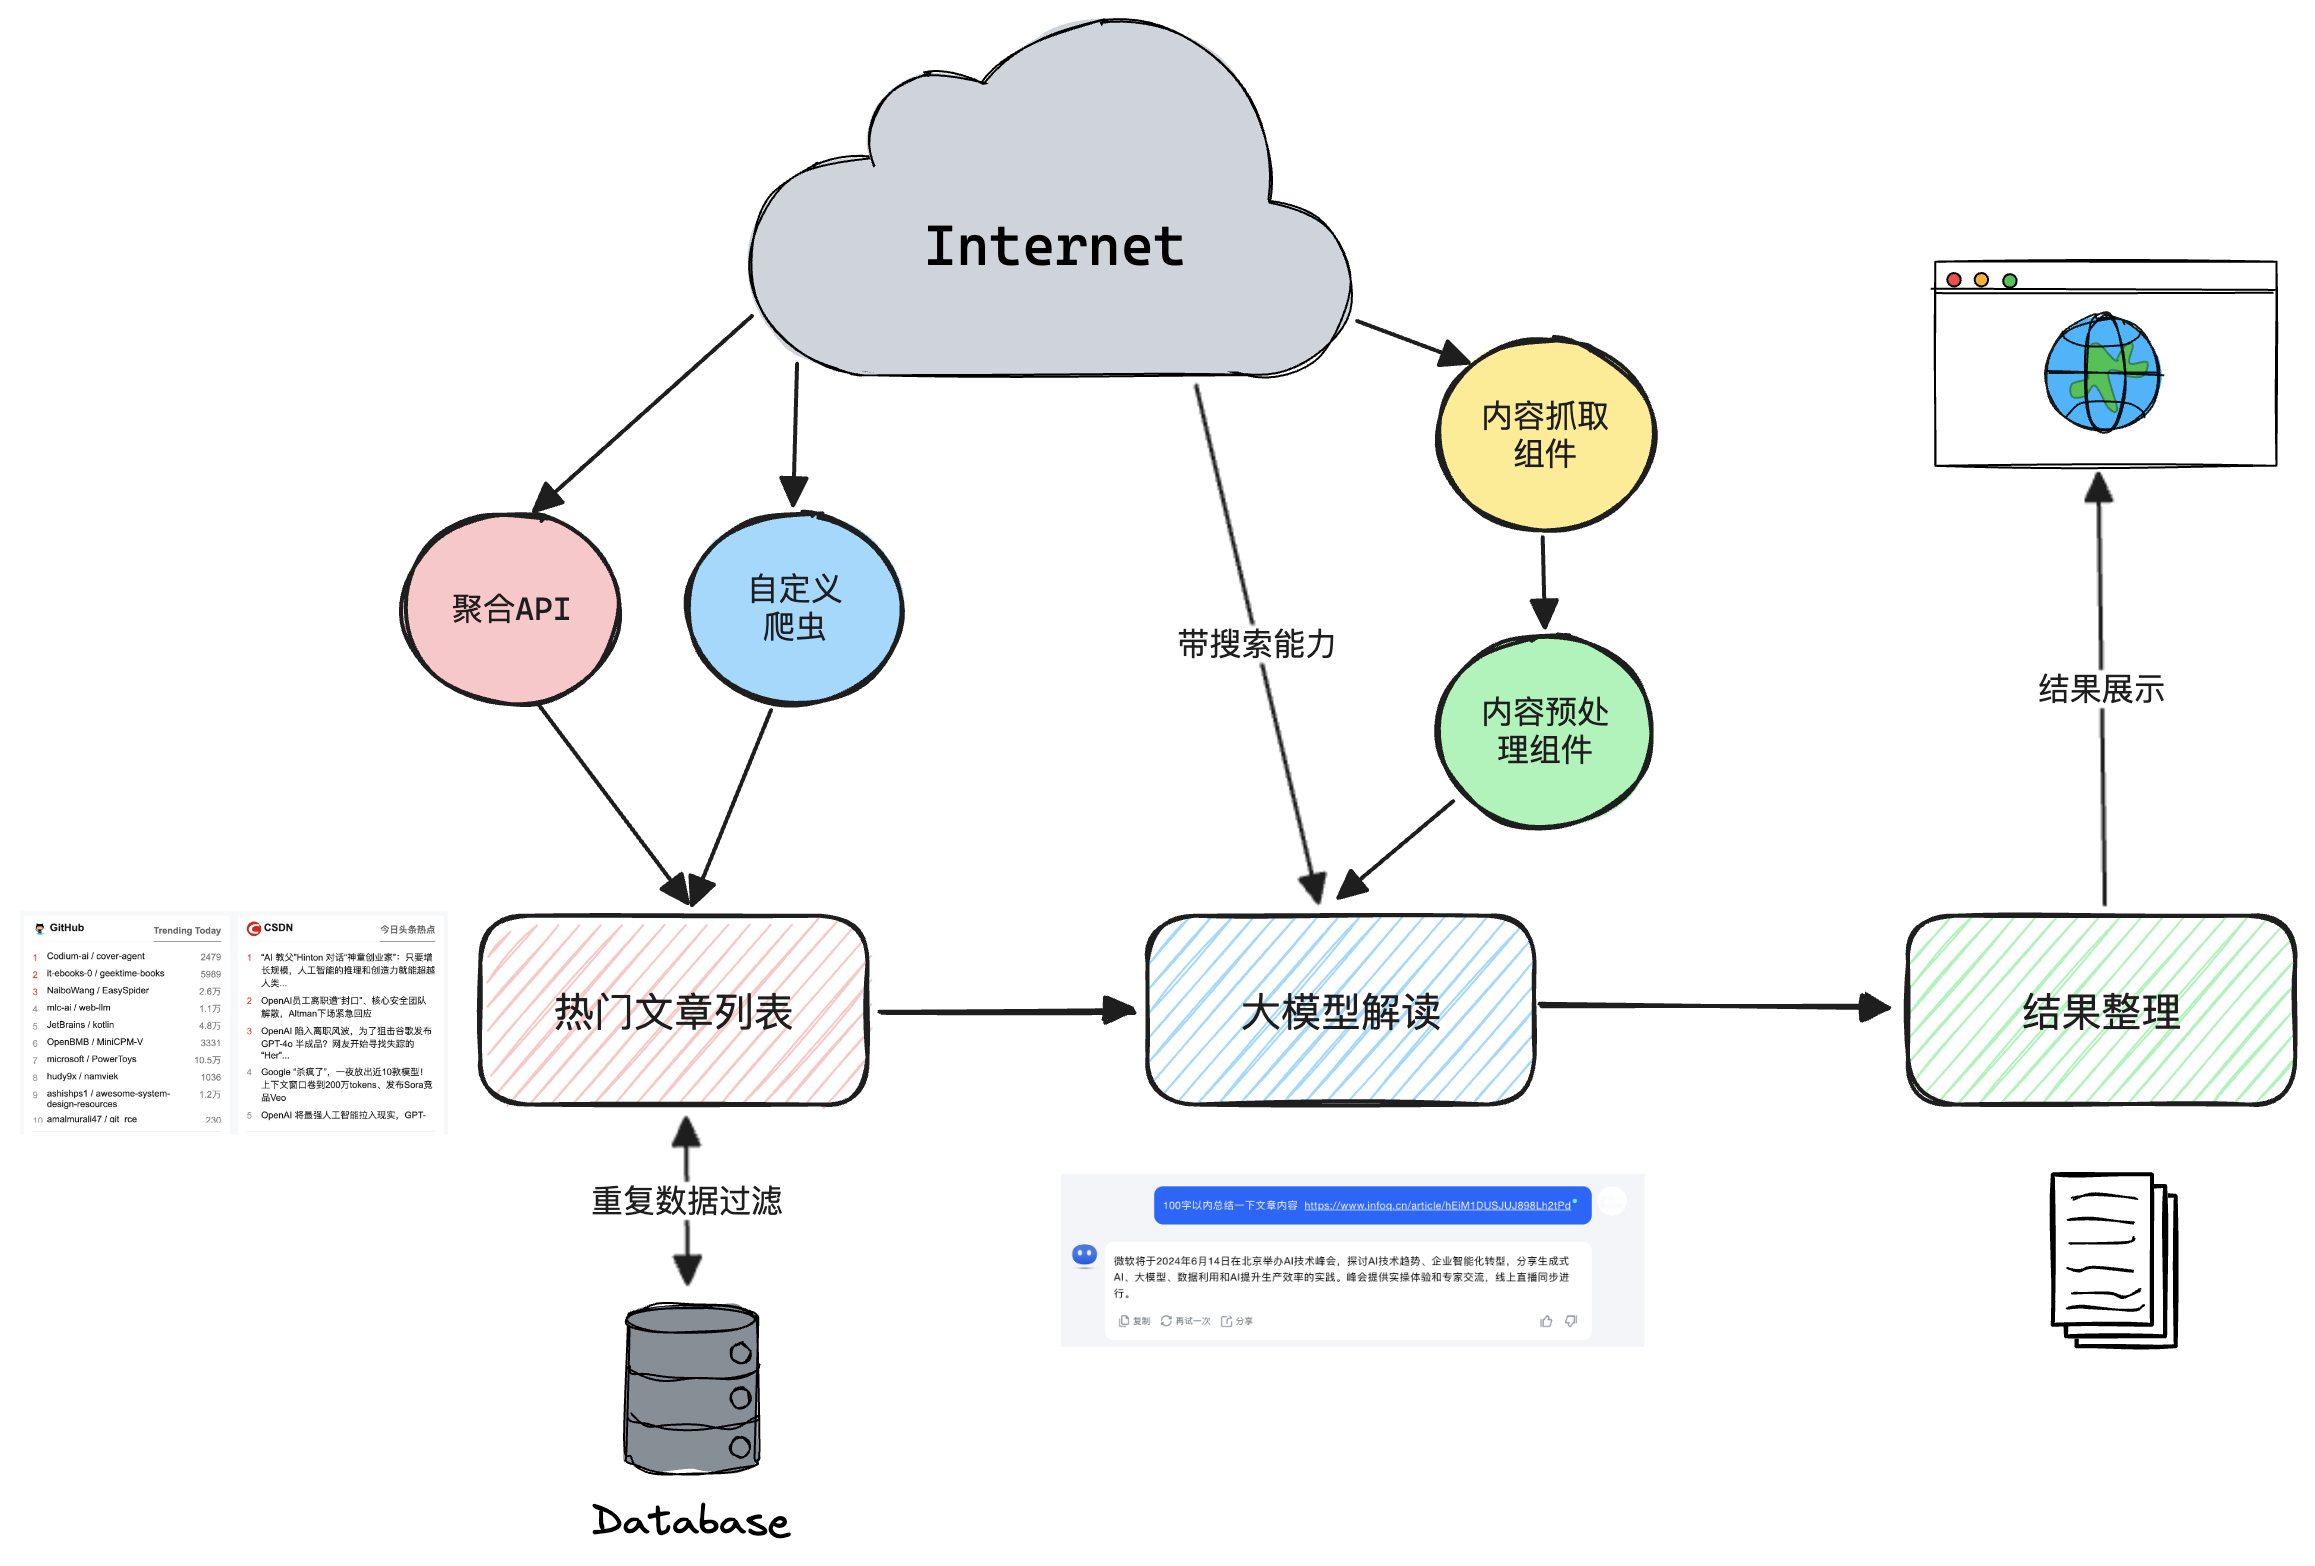
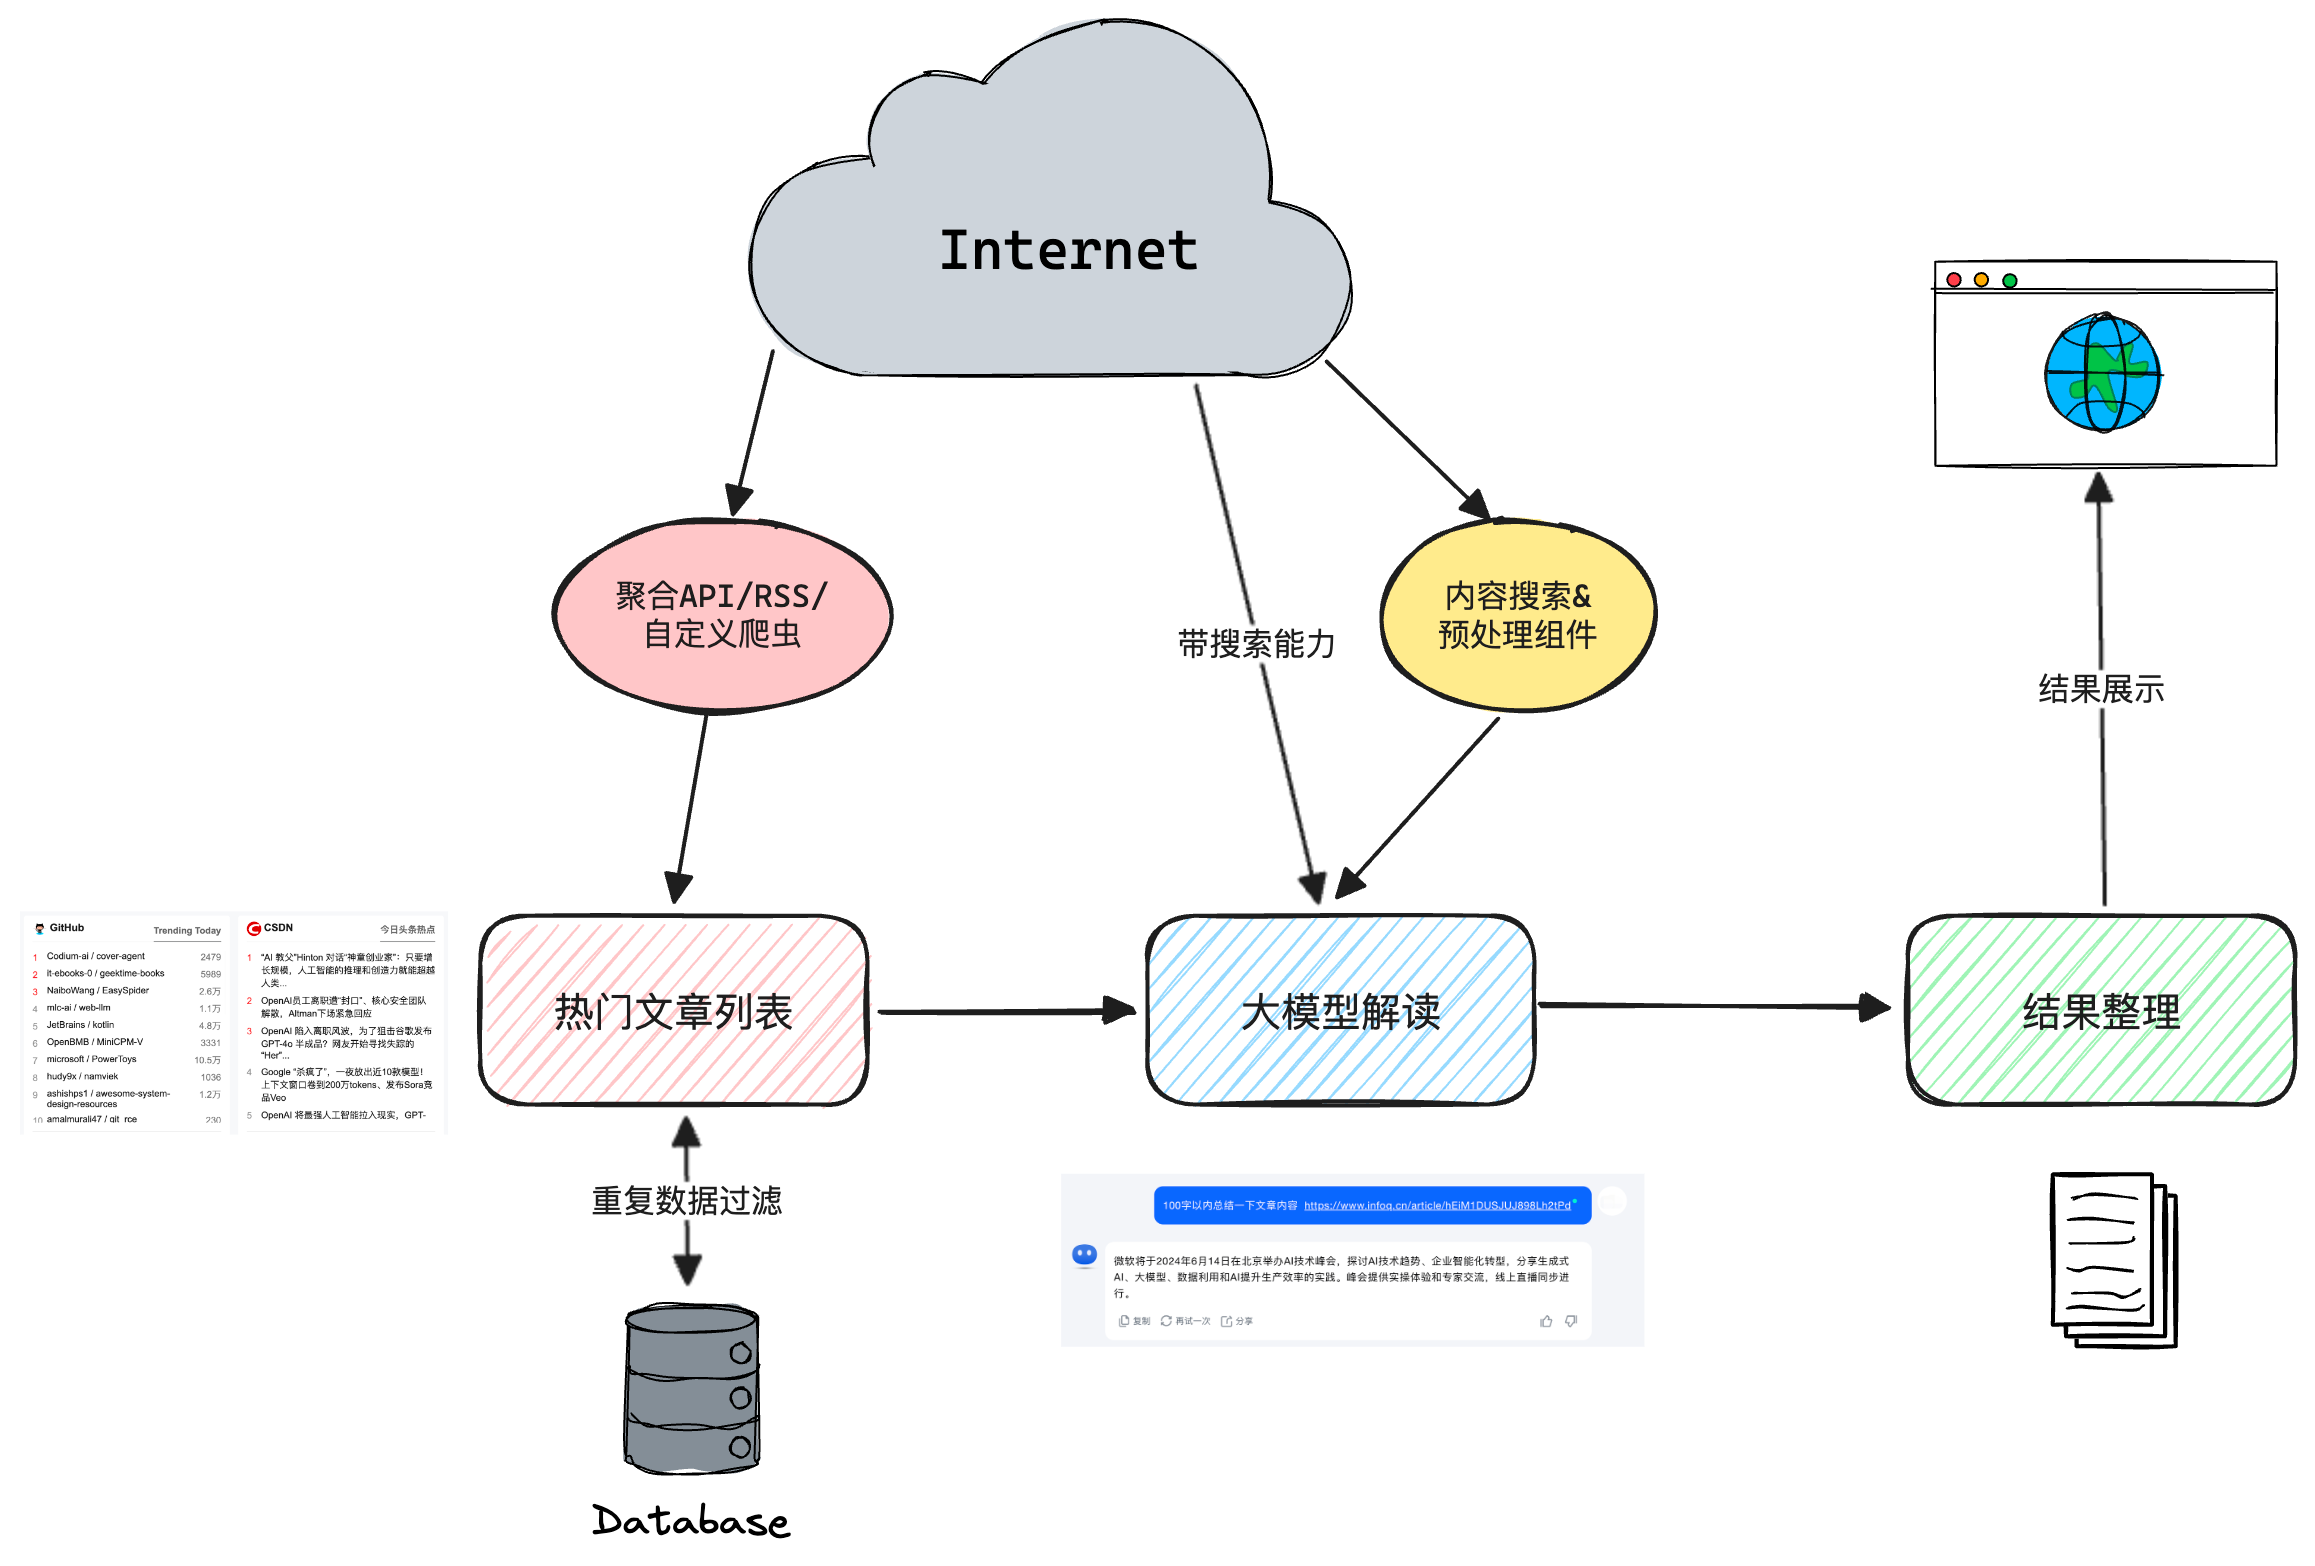
feat(*): 添加Rss抓取方式

diff --git a/main.py b/main.py
@@ -1,64 +1,52 @@
-import fetch, yaml, json, ai, time
+import fetch, yaml, understand, time, hashlib
 import markdown_strings as md
+
+def generate_md5_hash(data):
+    md5_hash = hashlib.md5()
+    md5_hash.update(data.encode('utf-8'))
+    return md5_hash.hexdigest()
 
 # 读取配置文件
 with open('config.yaml', 'r') as file:
     config = yaml.safe_load(file)
 
 # 抓取热榜数据
-result = {}
-baseurl = config['hotList']['url']
-key = config['hotList']['key']
-hotTypes = config['hotList']['types']
-aiUrl = config['ai']['url']
-aiKey = config['ai']['key']
-aiRole = config['ai']['role']
-for type in hotTypes:
-    url = baseurl + type['code']
-    hotListResult = fetch.fetch_hot_list_content(url, key)
-    if hotListResult:
-        print(hotListResult)
-        needSummary = type['needSummary']
-        result[type['name']] = []
-        # 每个榜单保留配置num篇文章
-        for item in hotListResult['data']['items'][:type['num']]:
-            title = item['title']
-            contentUrl = item['url']
-            summary = item['description']
-            if needSummary:
-                # 获取文章内容
-                content = fetch.fetch_article_content(contentUrl)
-                if content:
-                    # 调用ai对文章内容总结，注意控制调用频率
-                    summary = ai.summarize_content(aiKey, aiUrl, aiRole, content)
-                    print(summary)
-                else:
-                    print(f"【LOG】获取文章{title}内容时发生错误。")  
-                time.sleep(20)  # 免费版为每分钟3次
-            result[type['name']].append({
-                'title': title,
-                'url': contentUrl,
-                'summary': summary
-            })
-    else:
-        print(f"【LOG】请求热榜{type['name']}失败或解析 JSON 数据时发生错误。")
-        continue
+result = None
+fetch_type = config['fetch']['type']
+fetch_config = config['fetch']['config']
+if fetch_type == 'rss':
+    result = fetch.fetch_list_by_rss(fetch_config)
+elif fetch_type == 'topApi':
+    result = fetch.fetch_list_by_api(fetch_config)
+else:
+    exit
 
-print(result)
+# 解读热榜数据
+date = time.strftime("%Y-%m-%d", time.localtime())
+needSummary = config['fetch']['needSummary']
+if needSummary:
+    ai_type = config['understand']['type']
+    for value in result.values():
+        for item in value:
+            # 调用ai对文章内容总结
+            summary = understand.summarize_content(type, item['url'])
+            print(summary)
+            item['summary'] = summary
+
 # 生成结果md
 if result:
     contents = []
-    fileTitle = time.strftime("%Y-%m-%d", time.localtime()) + '热门文章'
-    contents.append(md.header(fileTitle, 1))
+    file_title = date + '热门文章'
+    contents.append(md.header(file_title, 1))
     contents.append(md.blockquote('Power By: [developer-hotspots-summary](https://github.com/Xiaoxie1994/developer-hotspots-summary).'))
     for key, value in result.items():
         contents.append(md.header(key, 2))
-        tableTitle = ['文章']
-        tableSummary= ['摘要']
+        table_title = ['文章']
+        table_summary= ['摘要']
         for item in value:
-            tableTitle.append(f"[{item['title']}]({item['url'].replace(" ", "")})")
-            tableSummary.append(item['summary'])
-        contents.append(md.table([tableTitle, tableSummary]))
-    with open('./result/' + fileTitle + '.md', 'w', encoding="utf8") as file:
+            table_title.append(f"[{item['title'].replace("|", "")}]({item['url'].replace(" ", "")})")
+            table_summary.append(item['summary'])
+        contents.append(md.table([table_title, table_summary]))
+    with open('./result/' + file_title + '.md', 'w', encoding="utf8") as file:
         file.write("\n".join(contents))
         

diff --git a/fetch.py b/fetch.py
@@ -1,4 +1,4 @@
-import requests
+import requests, feedparser
 from selenium import webdriver
 from selenium.webdriver.chrome.service import Service
 from webdriver_manager.chrome import ChromeDriverManager
@@ -6,6 +6,44 @@ from selenium.webdriver.common.by import By
 from selenium.webdriver.support.ui import WebDriverWait
 from selenium.webdriver.support import expected_conditions as EC
 from bs4 import BeautifulSoup
+
+# 使用聚合api获取热门文章列表
+def fetch_list_by_api(config):
+    result = {}
+    baseurl = config['url']
+    key = config['key']
+    hotTypes = config['types']
+    for type in hotTypes:
+        url = baseurl + type['url']
+        hotListResult = fetch_hot_list_content(url, key)
+        if hotListResult:
+            print(hotListResult)
+            result[type['name']] = []
+            # 每个榜单保留配置num篇文章
+            for item in hotListResult['data']['items'][:type['num']]:
+                result[type['name']].append({
+                    'title': item['title'],
+                    'url': item['url'],
+                    'summary': item['description']
+                })
+        else:
+            print(f"【LOG】请求热榜{type['name']}失败或解析 JSON 数据时发生错误。")
+            continue
+    return result
+
+# 使用RSS获取热门文章列表
+def fetch_list_by_rss(config):
+    result = {}
+    hotTypes = config['types']
+    for type in hotTypes:
+        hotListResult = parse_rss_feed(type['url'], type['num'])
+        if hotListResult:
+            print(hotListResult)
+            result[type['name']] = hotListResult
+        else:
+            print(f"【LOG】请求热榜{type['name']}失败或解析 RSS 数据时发生错误。")
+            continue
+    return result
 
 def fetch_hot_list_content(url, key):
     print(f"【LOG】fetch_hot_list_content: {url}")
@@ -43,7 +81,32 @@ def fetch_article_content(url):
 
         # 解析页面内容
         soup = BeautifulSoup(page_content, 'html.parser')
-        return soup.get_text()
+        text = soup.get_text()
+        cleaned_lines = [line.strip() for line in text.splitlines() if line.strip()]
+        return '\n'.join(cleaned_lines)
     except Exception as e:
         print(f"【LOG】获取文章内容异常: {e}")
+    return None
+
+def parse_rss_feed(rss_url, num):
+    print(f"parse_rss_feed: {rss_url}")
+    try:
+        # 解析 RSS 源
+        feed = feedparser.parse(rss_url)
+
+        # 创建一个列表存储结果
+        result = []
+
+        # 遍历每个条目，提取标题和链接，并添加到结果列表中
+        for entry in feed.entries[:num]:
+            item = {
+                'title': entry.title,
+                'url': entry.link,
+                'summary': entry.description if len(entry.description) <= 200 else None
+            }
+            result.append(item)
+
+        return result
+    except Exception as e:
+        print(f"【LOG】获取热门list异常: {e}")
     return None

diff --git a/understand.py b/understand.py
@@ -1,0 +1,39 @@
+from openai import OpenAI
+import fetch, time
+
+def summarize_content(type, url, key):
+    if type == 'kimi':
+        return summarize_content_kimi(url, key)
+    # 可以扩展更多的ai类型
+    # elif type == 'gimini': 
+    # elif type == 'openAi':     
+    else:
+        return None
+
+# 调用kimi api生成摘要
+def summarize_content_kimi(url, key):
+    try:
+        # kimi api暂不支持搜索 需要调用内容抓取
+        content = fetch.fetch_article_content(url)
+        if content == None : return
+        # 调用kimi api生成摘要
+        client = OpenAI(
+            api_key = key,
+            base_url = 'https://api.moonshot.cn/v1',
+        )
+        completion = client.chat.completions.create(
+            # 如果传入的文本太大可以调整模型
+            model = "moonshot-v1-32k",
+            messages = [
+                {"role": "system", "content": "你是Kimi，你擅长对软件开发技术博客进行内容总结。你会为用户提供安全，有帮助，准确的回答。"},
+                {"role": "user", "content": "请协助我对博客内容进行总结，150字以内，博客内容为：" + content}
+            ],
+            temperature = 0.3
+        )
+        result = completion.choices[0].message.content
+        time.sleep(20)  # 注意控制调用频率，免费版为每分钟3次
+        return result
+    except Exception as e:
+        print(f"【LOG】使用ai总结文章异常: {e}")
+    return None
+

diff --git a/README.md b/README.md
@@ -10,14 +10,14 @@
 ## 方案设计 
 ![方案设计](./picture/image.png)
 
-PS：目前项目暂时没有实现“文章重复数据过滤”、“自定义爬虫”和“内容预处理组件”（可以基于LangChain实现）功能，后续会逐步完善。
+PS：目前项目暂时没有实现“重复数据过滤”、“自定义爬虫”和“内容预处理”（可以基于LangChain实现）功能，后续会逐步完善。
 
 ## 依赖三方API
 - [Tophubdata](https://www.tophubdata.com/): 提供热门榜单数据，现成数据不用自己写爬虫（有一定费用开销）；
 - [Moonshot AI](https://platform.moonshot.cn/): 大模型KIMI的API，不支持搜索能力。
 
 ## 使用方式
-- 修改配置文件config.yaml中的key值, 并按照自己需求调整热榜类型
+- 将config-template.yaml重命名为config.yaml，按照诉求修改中配置项（添加开放api的key值, 并按照自己需求调整热榜类型）
 - 运行main.py程序
 ```
 python3 main.py
